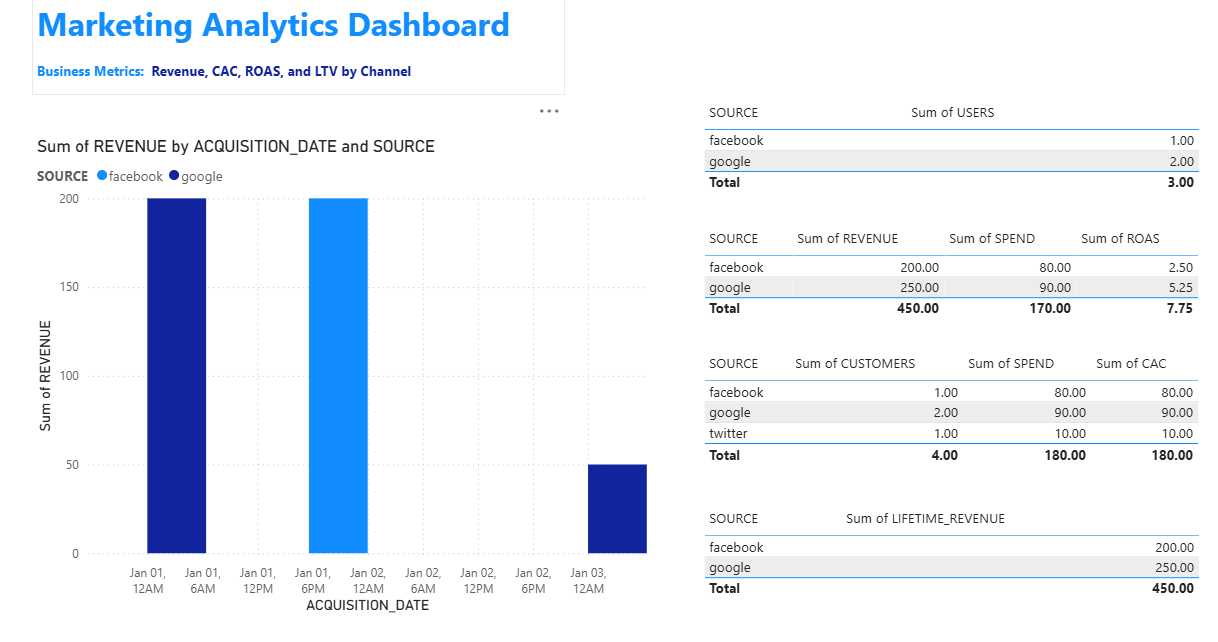
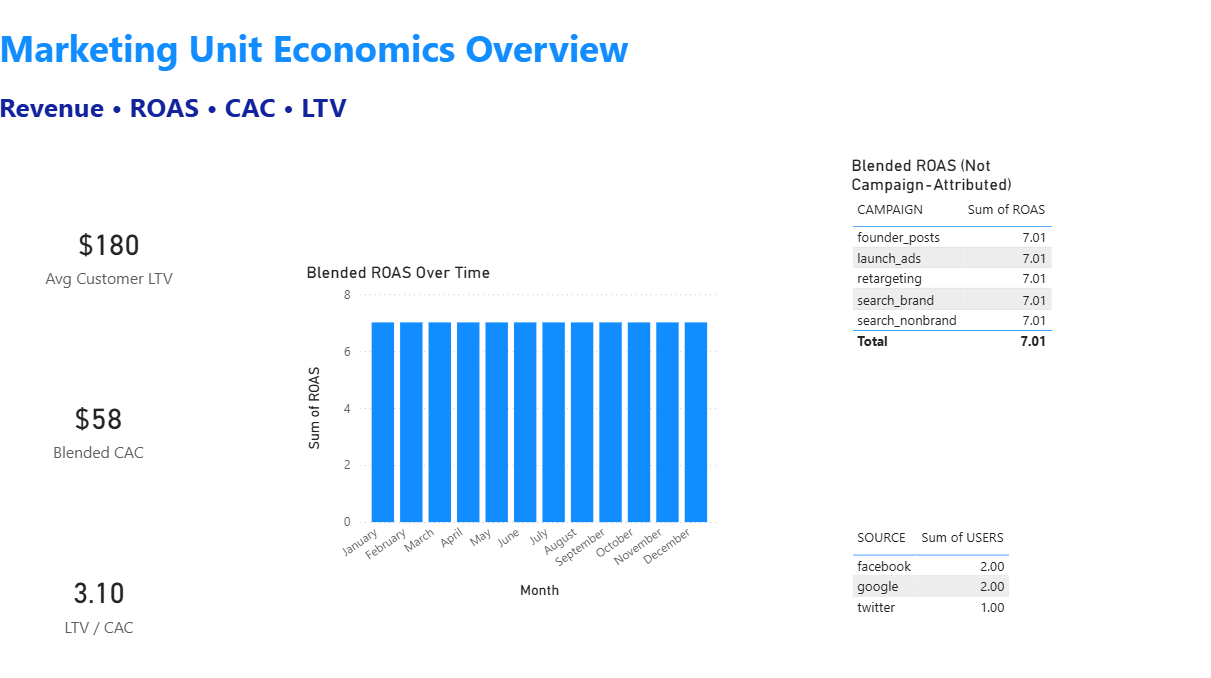
Finalize Power BI unit economics dashboard aligned with dbt marts
- Rebuilt Power BI dashboard using LOCAL_RAW_MARTS backed by dbt seeds
- Enforced metric grain separation (channel vs blended/global)
- Added global KPI cards for Avg LTV, Blended CAC, and LTV/CAC
- Visualized blended ROAS over time with explicit non-attribution labeling
- Included campaign list for contextual ROAS without misleading attribution
- Removed all Power BI-side business logic and relationships
- Updated layout, titles, and labels for clarity

diff --git a/README.md b/README.md
@@ -179,12 +179,35 @@ Manual metric validation queries are included in the `analysis/` directory to sa
 ---
 
 ## Analytics Output
-The final marts layer powers an example BI dashboard that answers:
-- How much are we spending to acquire customers?
-- Which campaigns generate the highest ROAS?
-- How does customer lifetime value compare to acquisition cost?
+
+The final marts layer powers a **Power BI dashboard** focused on marketing unit economics.  
+The dashboard is intentionally minimal and designed to reflect the metric grains defined in dbt.
+
+### Business questions answered
+
+**How much are we spending to acquire customers?**  
+- Answered using **Blended CAC**, shown as a global KPI representing the average cost to acquire a customer across all channels.
+
+**Which campaigns generate the highest ROAS?**  
+- The dashboard presents **overall (blended) ROAS**.
+- Campaigns are listed for context, but ROAS is explicitly **not attributed at the campaign level** to avoid misleading comparisons.
+
+**How does customer lifetime value compare to acquisition cost?**  
+- Answered using **Avg Customer LTV**, **Blended CAC**, and the **LTV/CAC ratio**, all displayed as global KPIs.
+
+### Design notes
+
+- All business logic and metric definitions are implemented in **dbt**.
+- Power BI is used strictly as a **consumption and visualization layer**.
+- Metrics are only visualized at valid grains; attribution limits are made explicit.
+- No additional calculations or transformations are performed in Power BI.
+
+This approach prioritizes **clarity, correctness, and analytical discipline** over over-attribution or cosmetic complexity. 
+
 
 ![Marketing Analytics Dashboard](dashboard.png)
+
+The final marts layer powers a **Power BI dashboard** focused on marketing unit economics.
 
 ---
 
